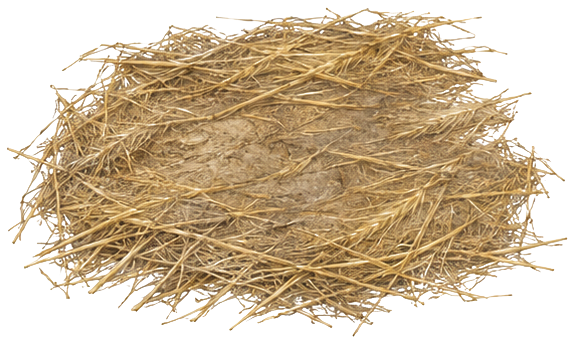
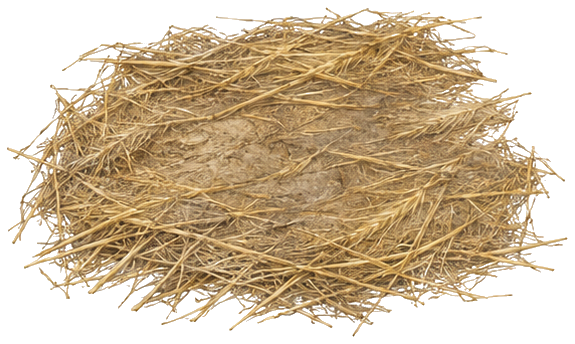
5LH3-1: copies keep the scene's three-quarter facing (no turns, mirror only); straw halo fixed
Claude-Session: https://claude.ai/code/session_01FoMmymMqJpjamuTF3vC5GB

diff --git a/dev/dungeon/dress/dress.py b/dev/dungeon/dress/dress.py
@@ -386,11 +386,13 @@ def dress_room(work, L, key, spec, floor_root):
                 for i in order:
                     nm, pp, s_src, sd = pal[i]
                     if nm == last or used.get(nm, 0) >= pk.get("maxeach", 2): continue
-                    rot = ((SIDES.index(wall) - SIDES.index(sd)) % 4) * 90
-                    flip = ("h" if wall in "ns" else "v") if rng.random() < 0.5 else None
-                    if upright(pp):   # banners and pennants: same wall side only, never upside down
-                        if rot: continue
-                        flip = "h" if (wall in "ns" and rng.random() < 0.5) else None
+                    # The art is drawn in a fixed three-quarter view (John, 2026-11-11): a copy is never turned, only
+                    # mirrored left-right, so it keeps the scene's facing. North-wall pieces stay on north walls, south on
+                    # south; an east-wall piece mirrored becomes a west-wall piece and the reverse.
+                    rot = 0
+                    if sd == wall: flip = "h" if (wall in "ns" and rng.random() < 0.5) else None
+                    elif {sd, wall} == {"e", "w"}: flip = "h"
+                    else: continue
                     c, o, h = xform(pp, s_src * pk.get("s", 1.0), rot, flip)
                     hh, ww = o.shape
                     depth = hh if wall in "ns" else ww; length = ww if wall in "ns" else hh

diff --git a/dev/dungeon/patina/decals.py b/dev/dungeon/patina/decals.py
@@ -23,6 +23,9 @@ for k, i in enumerate(keep, 1):
     col = a[y:y + h, x:x + w]
     if kind == "grime":   # colour of the mark at full strength: un-multiply from white
         col = np.clip(255 - (255 - col) / np.maximum(al[..., None], 0.05), 0, 255)
+    else:                 # straw: take the white background out of the soft edges (no pale halo on dark floors)
+        al = np.clip((al - 0.15) / 0.85, 0, 1)
+        col = np.clip((col - 255 * (1 - al[..., None])) / np.maximum(al[..., None], 0.08), 0, 255)
     rgba = np.dstack([col, al * 255]).astype(np.uint8)
     Image.fromarray(rgba, "RGBA").save(os.path.join(out, f"{kind}-{k:02d}.png"))
     tile = Image.fromarray(rgba, "RGBA"); idx.paste(tile, (x, y), tile)

diff --git a/dev/dungeon/dress/alleys.py b/dev/dungeon/dress/alleys.py
@@ -66,7 +66,7 @@ if __name__ == "__main__":
         for _ in range(400):
             if got >= target: break
             p = pal[rng.integers(len(pal))]
-            rot = 0 if dress.upright(p) else int(rng.integers(4)) * 90
+            rot = 0   # never turned: the art keeps the scene's three-quarter facing (John, 2026-11-11)
             c, o, s = dress.xform(p, 1.0, rot, "h" if rng.random() < 0.5 else None)
             hh, ww = o.shape
             if ww > w or hh > h: continue

diff --git a/dev/dungeon/ims/build-record.md b/dev/dungeon/ims/build-record.md
@@ -116,3 +116,4 @@ About **80 minutes** of build time for three floors and 34 rooms.
 - **Playlist shuffles** (John): mode Shuffle, tracks do not repeat, so it runs the whole list in random order.
 - **Combat sound effects** (module-wide, `scripts/sfx.js`, 29 Pixabay sounds in `assets/sounds/sfx/`, Ogg Opus 96 kbps, 716 KB): attack hit / miss / critical by weapon (blade, blunt, ranged, bite, claw; monster attacks are typed "natural", so the attack's name decides), spells and save abilities by damage type, death cries by creature type plus a body fall, traps (mechanism, then fire / poison / bolt) when a trap's chain switches it off (Disarm passes `btltDisarm` and stays silent), war horn on Flee. Broadcast to everyone on the interface channel; world setting "Combat sound effects", client setting "Sound effects volume". Credits: new "Sound Effects" page in the Credits journal (`dev/dungeon/sfx_credits.js`). Tested in Foundry: spear hit → blade hit; servant to 0 HP → death cry + body fall; hound → yelp; War Cry → psychic. Re-shipped: Adventure `5jKfZsduE8aLA4jZ`.
 - **Second pass (John):** banners and pennants (red cloth, or named in a room's `upright` list) are never turned or flipped upside down, so free-standing racks with pennants all face one way (armory lines no longer mirrored); every stair gets a 10-ft landing lane in front of it that furniture must keep off; small warm lights on the Flee icons (`flee_controls.js`, role `flee-light`, walls on, no vision); dead-end alleys in the yard cluttered from the courtyard's grabs (`dress/alleys.py`: open ground 2+ squares off every door-to-door route); floor patina under the furniture (`patina/patina.py`: dust along walls and corners, blotchy discolouration, scuffs/spills/drag marks, straw where the room calls for it; decals cut from two ChatGPT sheets by `patina/decals.py`, bootprints left out; per-room `patina` in `dress-<floor>.json`). Map tiles renamed `-n{ix}{iy}` so browsers fetch the new art. Re-shipped: Adventure `uvnwgbT5lje5bQ6J`.
+- **Three-quarter facing (John):** the art is drawn from one fixed three-quarter view, so copies are never turned. North-wall pieces are copied only to north walls and south only to south (mirrored left-right at most); an east-wall piece mirrored becomes a west-wall piece. The dead-end alley clutter and the room specs' explicit turns follow the same rule. Straw decals re-cut without the pale halo; courtyard straw halved. Tiles renamed `-p{ix}{iy}`. Re-shipped: Adventure `mntZjy7GgTRh23xX`.
